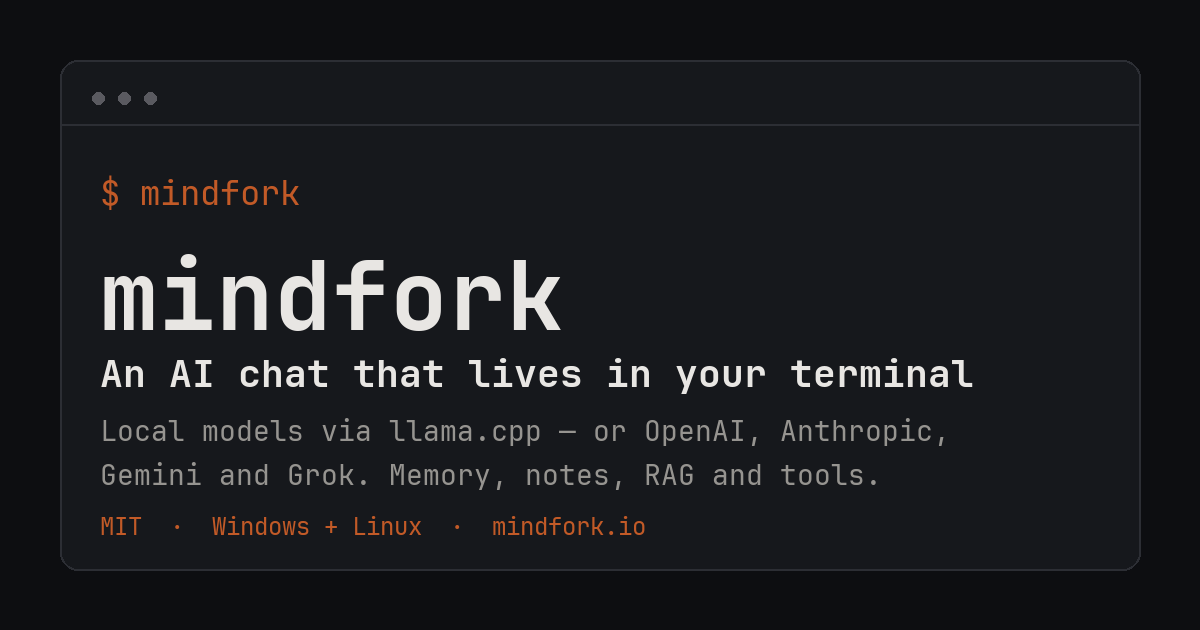
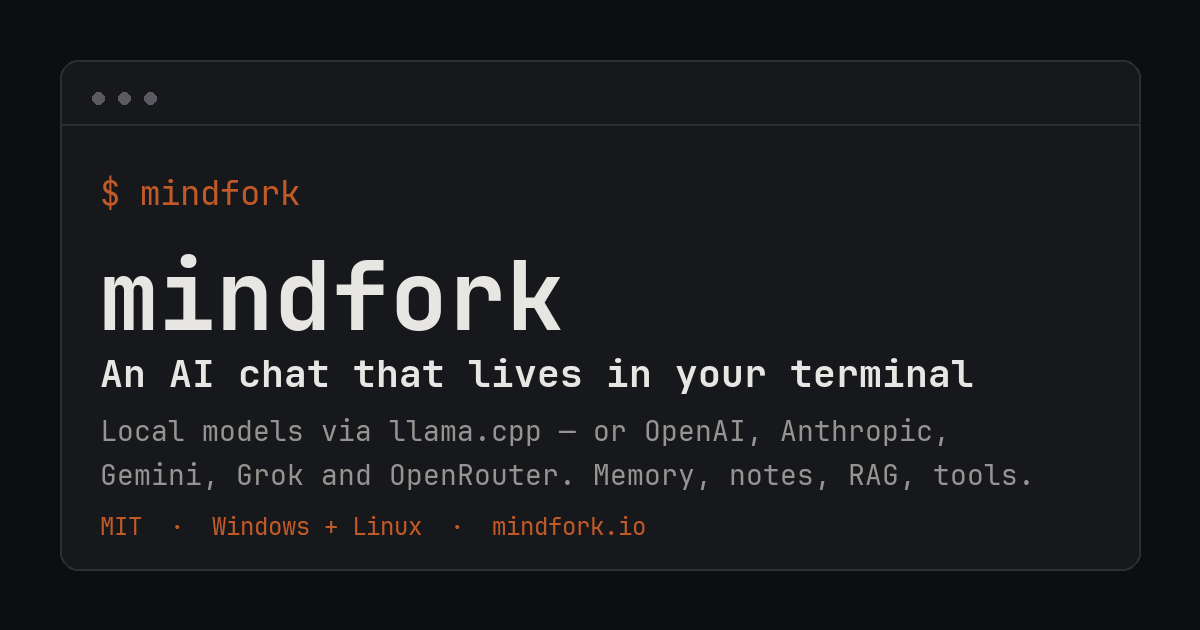
docs(site): the description names the gateway, and speech goes through it
Two decisions of the owner's, 2026-09-29, on the branch held for the
release that carries the OpenRouter mode.

- The application's one-sentence description, which had counted four
  clouds, names OpenRouter wherever it is written: Cargo.toml, the README's
  first line, the package metadata, the site's configuration and through it
  /llms.txt, the home page's own description, and the social preview card,
  redrawn.
- The hero's panel has a row for the gateway rather than a fifth name on
  the row of clouds: its rows do not wrap.
- Speech: the home page's card says `/tts` speaks through the speech
  models behind an OpenRouter key too; the trust-boundaries article says
  what is sent and to whom, that the audio is not kept and that none is
  ever sent; the overview names the four ways speech comes out.

Built with the pinned Zola and looked at; the gates are green.

Changed region(s): [[0.185, 0.7238, 0.8633, 0.7841]]

diff --git a/site/templates/index.html b/site/templates/index.html
@@ -39,6 +39,7 @@
           <dl class="fetch-data">
             <div><dt>engine</dt><dd>llama.cpp — local GGUF</dd></div>
             <div><dt>cloud</dt><dd>OpenAI · Anthropic · Gemini · Grok</dd></div>
+            <div><dt>gateway</dt><dd>OpenRouter</dd></div>
             <div><dt>memory</dt><dd>self-model · notes · RAG</dd></div>
             <div><dt>tools</dt><dd>web · python · files · project · MCP</dd></div>
             <div><dt>ui</dt><dd>ratatui · markdown · mermaid</dd></div>

diff --git a/tools/og_card.py b/tools/og_card.py
@@ -53,7 +53,7 @@ PROMPT = "$ mindfork"
 TAGLINE = "An AI chat that lives in your terminal"
 LINES = [
     "Local models via llama.cpp — or OpenAI, Anthropic,",
-    "Gemini and Grok. Memory, notes, RAG and tools.",
+    "Gemini, Grok and OpenRouter. Memory, notes, RAG, tools.",
 ]
 FOOT = "MIT  ·  Windows + Linux  ·  mindfork.io"
 

diff --git a/docs/journal/website.md b/docs/journal/website.md
@@ -10,7 +10,7 @@ the reasoning behind the site, not its current shape. For the current shape
 read the research/design doc above; for the traps that recur across areas
 read [lessons.md](../lessons.md).
 
-## Entries (25)
+## Entries (26)
 
 - Post-M9: website — research + S1 scaffold (Zola, terminal-styled) (done)
 - Post-M9: website — S2 infra: one CloudFormation stack, mindfork.io live (done)
@@ -37,6 +37,7 @@ read [lessons.md](../lessons.md).
 - Post-M9: website — the 0.10.2 release post (done)
 - Post-M9: website — the site waits for the release (done)
 - Post-M9: website — crates.io in the header and on the install page (done)
+- Post-M9: website — the gateway in the description, and speech through it (done)
 
 ### Post-M9: website — research + S1 scaffold (Zola, terminal-styled) (done)
 
@@ -1312,3 +1313,42 @@ both on `main` at `88e5ce29`, the merge of the pull request.
   `--check` and `--self-test`, `site_legal_pages.py --check`, `cyrillic_scan`,
   `link_check`, `doc_index_check` — green. No Rust changed, so no test count moves
   and no CHANGELOG line: the app is the same binary.
+
+### Post-M9: website — the gateway in the description, and speech through it (done)
+
+- **What.** The texts the OpenRouter track held back for its release, brought to where
+  the track stands: the home page and three articles had been written after stage 1 and
+  kept on a branch of their own, since the site deploys when `main` changes and they
+  describe a mode the published version does not have. Two decisions of the owner's
+  (2026-09-29) are made here: **the one-sentence description of the application names
+  the gateway**, and the site says that **speech goes through it too**. Every stage of
+  the track ships in one release, and this branch goes with it.
+- **The sentence, in every place it is written** — it had counted four clouds since the
+  Grok release: `Cargo.toml` (what crates.io shows), the README's first line,
+  `packaging/nfpm.yaml` (what `apt show` prints), `site/zola.toml` (the site-wide
+  description, and through it `/llms.txt` and the structured data), the home page's own
+  description, and the social preview card, redrawn by `tools/og_card.py`. It reads
+  *"local models via llama.cpp, or OpenAI, Anthropic, Gemini, Grok and OpenRouter in
+  the cloud"*. The home page's card keeps its count — *Four clouds and a gateway* —
+  because a gateway is not a fifth cloud: it is one key in front of the others' models
+  and many more.
+- **The hero's panel** has a row of its own, `gateway  OpenRouter`, rather than a fifth
+  name on the `cloud` row. The rows do not wrap (`white-space: nowrap`), so a longer row
+  would have widened the panel by some ninety pixels against the headline beside it; a
+  label of seven characters is exactly the width the label column has.
+- **Speech.** The card *It can read replies aloud* says `/tts` speaks through OpenAI or
+  Gemini, or through any of the speech models behind an OpenRouter key, in a voice
+  picked from the model's own list. *Where the trust boundaries are* says what is sent
+  when `/tts` is invoked and to whom — the gateway **and** the vendor behind the model
+  chosen — that the audio is played and not kept, and that no audio is ever sent
+  anywhere; the image-by-URL sentence, which had shared the bullet, has its own.
+  *mindfork at a glance* names the four ways speech comes out.
+- **Verified by building.** Zola 0.23.6, the pinned version: 25 pages, no orphan,
+  `zola check` clean; the home page looked at in a headless browser at 1440 pixels, dark
+  — the panel's eight rows beside the headline, nothing wrapped; the description read out
+  of the built page's `<meta>`; the card looked at — both lines inside the window's
+  frame. `site_llms_txt.py --check`, `link_check`, `cyrillic_scan`, `doc_index_check`
+  green.
+- **Not done here.** No release post: it is the release's. The feature grid stays twelve
+  cards. `docs/research/public-documents.md`, which records the grid's order and the
+  sentence as they were decided, is history and keeps its words.

diff --git a/site/content/_index.md b/site/content/_index.md
@@ -1,6 +1,6 @@
 +++
 title = "mindfork — an AI chat that lives in your terminal"
-description = "Local models via llama.cpp or four cloud providers, persistent memory, notes, RAG and an agentic tool loop — one fast native binary for Windows and Linux."
+description = "Local models via llama.cpp, four cloud providers or an OpenRouter key, persistent memory, notes, RAG and an agentic tool loop — one fast native binary for Windows and Linux."
 
 [extra]
 hero_title = "An AI chat that lives in your terminal"
@@ -48,7 +48,7 @@ desc = "When a conversation outgrows the model's context window, the early part 
 
 [[extra.features]]
 title = "It can read replies aloud"
-desc = "/tts speaks the last message, the last N, or the whole conversation, through OpenAI or Gemini speech — no new vendor to sign up for if you already use one of them."
+desc = "/tts speaks the last message, the last N, or the whole conversation, through OpenAI or Gemini speech — or through any of the speech models behind an OpenRouter key, in a voice picked from the model's own list. No new vendor to sign up for if you already use one of them."
 
 [[extra.features]]
 title = "Private by construction"

diff --git a/docs/README.md b/docs/README.md
@@ -6,7 +6,7 @@ Two audiences, and they want different documents.
 
 | Document | What it answers |
 |---|---|
-| **[install.md](install.md)** | installing on Windows and Linux, where the data lives, connecting an engine (managed `llama-server`, an external server, the four clouds), the Python sandbox, MCP servers, speech, backups, the environment variables |
+| **[install.md](install.md)** | installing on Windows and Linux, where the data lives, connecting an engine (managed `llama-server`, an external server, the four clouds, the OpenRouter gateway), the Python sandbox, MCP servers, speech, backups, the environment variables |
 | **[manual.md](manual.md)** | how to use it: the screens, chats and profiles, what it remembers, files and images, your code project, the tools and their switches, the keys and the commands, and what to do when something goes wrong |
 | **[import-format.md](import-format.md)** | the neutral JSON format for bringing conversations in from another application |
 | **[../CHANGELOG.md](../CHANGELOG.md)** | what each release changed, in user language |

diff --git a/site/content/articles/trust-boundaries.md b/site/content/articles/trust-boundaries.md
@@ -61,8 +61,13 @@ machine or your usage.
   you named there. Result pages are fetched to extract their text. YouTube
   sends the video's address, not its bytes, to Gemini, if you gave it a
   key for that.
-- **Speech** is sent only when you invoke `/tts`. An image attached by URL
-  is downloaded by the app itself and never handed to a provider to fetch.
+- **Speech** is sent only when you invoke `/tts`: the text of the messages
+  being read, to the speech provider you chose — OpenAI, Gemini, a server of
+  your own, or the OpenRouter gateway and the vendor behind the model you
+  picked there. The audio that comes back is played and not kept, and the
+  app has no speech-to-text: no audio is ever sent anywhere.
+- An image attached by URL is downloaded by the app itself and never handed
+  to a provider to fetch.
 - **Plugins.** MCP servers run as local subprocesses over the process's own
   pipes; what they send onward is theirs. They are a double opt-in — a
   master switch and a per-profile approval — and a server that changes its

diff --git a/README.md b/README.md
@@ -13,9 +13,9 @@
 [![crates.io](https://img.shields.io/crates/v/mindfork.svg)](https://crates.io/crates/mindfork)
 [![License: MIT](https://img.shields.io/badge/License-MIT-blue.svg)](LICENSE)
 
-**A terminal AI chat written in Rust: local models via llama.cpp or OpenAI,
-Anthropic, Gemini and Grok in the cloud, with persistent memory, notes, RAG and
-tools.** One native binary for **Windows** and **Linux**, built on
+**A terminal AI chat written in Rust: local models via llama.cpp, or OpenAI,
+Anthropic, Gemini, Grok and OpenRouter in the cloud, with persistent memory,
+notes, RAG and tools.** One native binary for **Windows** and **Linux**, built on
 [ratatui](https://ratatui.rs).
 
 **No model yet?** `mindfork demo` opens the app with sample chats and a scripted

diff --git a/site/content/articles/mindfork-at-a-glance.md b/site/content/articles/mindfork-at-a-glance.md
@@ -208,7 +208,9 @@ highlighting, tables, Mermaid diagrams and LaTeX — all rendered as text,
 in the terminal, with collapse toggles for thoughts and tool cards, search
 inside the conversation and across every chat, and a spellchecker in the
 input box. Pictures go in — from a file, the clipboard or a URL, to a
-local vision model or a cloud one — and speech comes out, with `/tts`.
+local vision model or a cloud one — and speech comes out, with `/tts`:
+through OpenAI, Gemini, a server of your own, or any speech model behind an
+OpenRouter key.
 Every action has a typed command for a terminal that keeps the chord for
 itself, copying works over SSH, a conversation exports to a file, and `F1`
 opens each screen's own key list.

diff --git a/CLAUDE.md b/CLAUDE.md
@@ -29,7 +29,7 @@ Two rules that follow from that:
   and from the code. Loading either whole spends context on twelve chapters to
   use one.
 - **The engineering journal is per area.** What was done, why, what was measured
-  and what was rejected lives in `docs/journal/<area>.md` — 551 entries, split by
+  and what was rejected lives in `docs/journal/<area>.md` — 552 entries, split by
   subsystem. Read the file for the area you are touching; grep across them when
   hunting a specific past decision.
 
